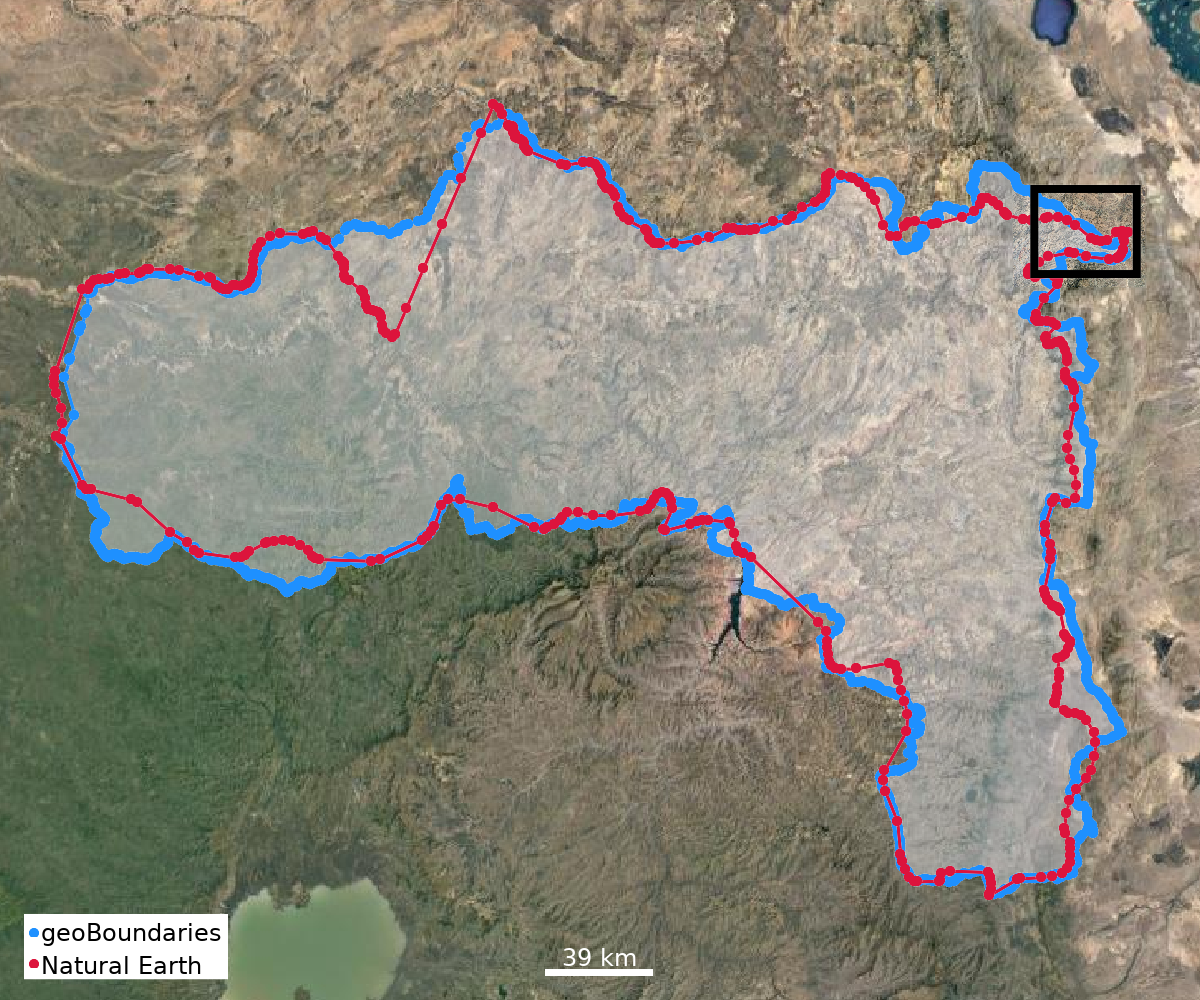
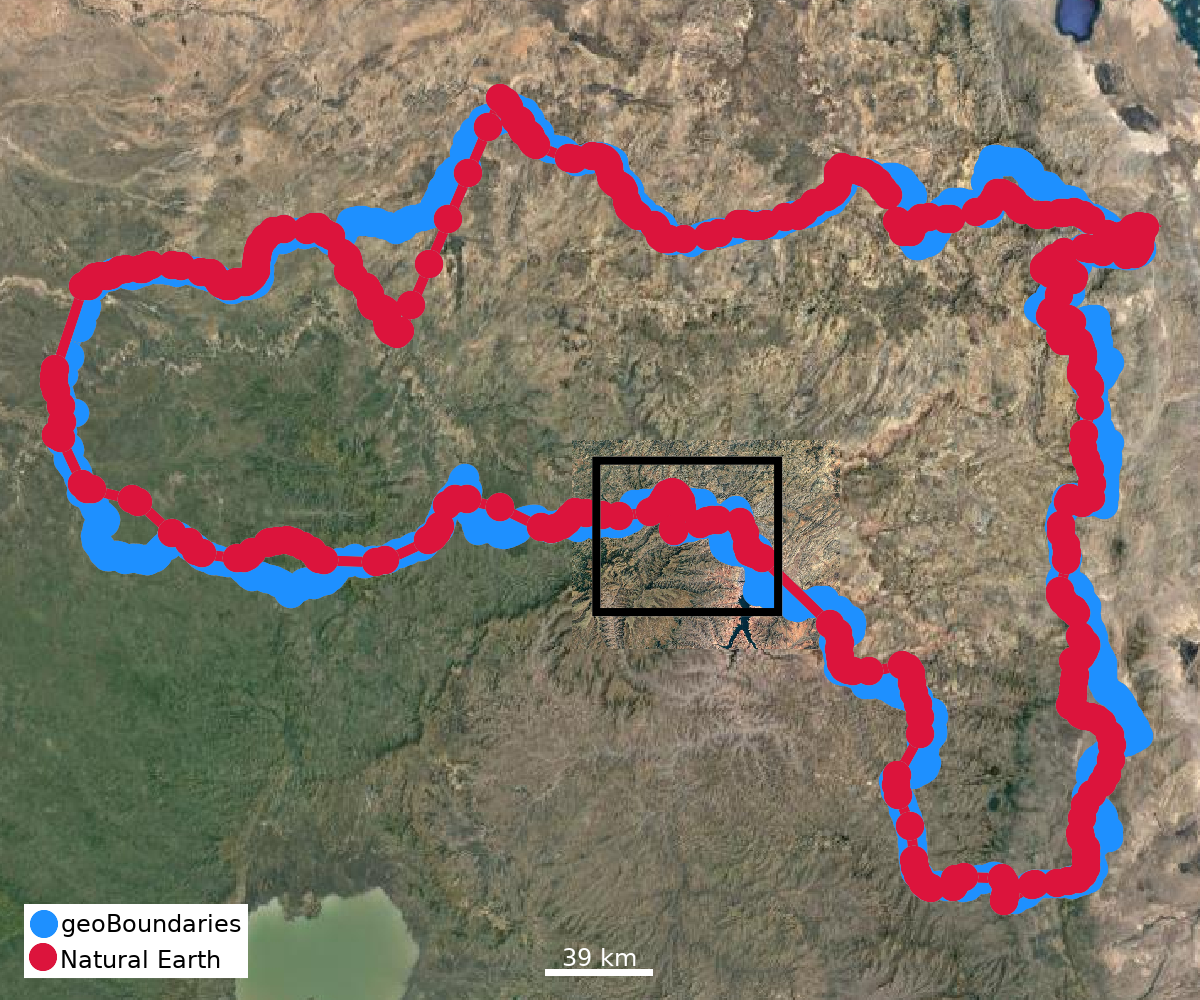
Updates to misc figures for dissertation, i think

diff --git a/tiler.py b/tiler.py
@@ -1,0 +1,210 @@
+
+import pythongis as pg
+
+# define sat tile loading
+# some parts from https://jimmyutterstrom.com/blog/2019/06/05/map-tiles-to-geotiff/
+import io
+import os
+from math import log, tan, radians, cos, pi, floor, ceil, degrees, atan, sinh
+from PIL import Image
+from urllib.request import urlopen
+import requests
+import hashlib
+
+def xyz2merc(x, y, zoom):
+    n = (2 ** zoom) or 1 # only 1 tile at zoom level 0
+    # get global mercator bounds
+    # https://www.maptiler.com/google-maps-coordinates-tile-bounds-projection/#4/87.28/18.02
+    #xmin,ymin,xmax,ymax = [-20037508.342789244, -20037508.342789244, 20037508.342789244, 20037508.342789244]
+    xmin,ymin,xmax,ymax = [-20026376.39, -20048966.10, 20026376.39, 20048966.10]
+    width,height = xmax-xmin, ymax-ymin
+    # convert xy to 0-1 range
+    x /= n
+    y /= n
+    # convert to mercator
+    x = xmin + width * x
+    y = ymin + height * (1-y)
+    return x,y
+
+def sec(x):
+    return(1/cos(x))
+
+def latlon_to_xyz(lat, lon, z):
+    tile_count = pow(2, z)
+    x = (lon + 180) / 360
+    if x < 0: 
+        x = 0
+    elif x > 1:
+        x = 1
+    if lat <= -90:
+        y = 1
+    elif lat >= 90:
+        y = 0
+    else:
+        y = (1 - log(tan(radians(lat)) + sec(radians(lat))) / pi) / 2
+    return((tile_count-0)*x, (tile_count-0)*y)
+
+# def latlon_to_xyz(lat, lon, z):
+#     # according to chatgpt
+#     lat_rad = radians(lat)
+#     n = 2.0 ** z
+#     xtile = int((lon + 180.0) / 360.0 * n)
+#     ytile = int((1.0 - log(tan(lat_rad) + (1 / cos(lat_rad))) / pi) / 2.0 * n)
+#     return (xtile, ytile)
+
+def bbox_to_xyz(lon_min, lat_min, lon_max, lat_max, z):
+    x_min, y_max = latlon_to_xyz(lat_min, lon_min, z)
+    x_max, y_min = latlon_to_xyz(lat_max, lon_max, z)
+    return(floor(x_min), floor(y_min),
+           floor(x_max), floor(y_max))
+
+def fetch_tile(x, y, z, tile_server):
+    url = tile_server.replace(
+        "{x}", str(x)).replace(
+        "{y}", str(y)).replace(
+        "{z}", str(z))
+    print('fetching from', url)
+    #fobj = io.BytesIO(urlopen(url).read())
+    headers = {'User-Agent': 'Mozilla/5.0 (Windows NT 10.0; Win64; x64) AppleWebKit/537.36 (KHTML, like Gecko) Chrome/58.0.3029.110 Safari/537.36'}
+    fobj = io.BytesIO(requests.get(url, headers=headers).content)
+    img = Image.open(fobj)
+    return img
+
+def fetch_tilecache(x, y, z, tile_server):
+    folder = 'temp'
+    if not os.path.exists(folder):
+        os.mkdir(folder)
+    urlhash = hashlib.md5(tile_server.encode('utf8')).hexdigest()
+    tilename = f'tile_cache_{urlhash}_x{x}_y{y}_z{z}.png'
+    path = f'{folder}/{tilename}'
+    print(path)
+    # fetch from cache or url
+    if os.path.exists(path):
+        # fetch cached tile image
+        img = Image.open(path)
+    else:
+        # fetch img from url
+        img = fetch_tile(x, y, z, tile_server)
+        # store in cache
+        img.save(path)
+    # return
+    return img
+
+# from https://github.com/jimutt/tiles-to-tiff/blob/master/tiles_to_tiff/tile_convert.py
+
+def mercatorToLat(mercatorY):
+    return(degrees(atan(sinh(mercatorY))))
+
+
+def y_to_lat_edges(y, z):
+    tile_count = pow(2, z)
+    unit = 1 / tile_count
+    relative_y1 = y * unit
+    relative_y2 = relative_y1 + unit
+    lat1 = mercatorToLat(pi * (1 - 2 * relative_y1))
+    lat2 = mercatorToLat(pi * (1 - 2 * relative_y2))
+    return(lat1, lat2)
+
+
+def x_to_lon_edges(x, z):
+    tile_count = pow(2, z)
+    unit = 360 / tile_count
+    lon1 = -180 + x * unit
+    lon2 = lon1 + unit
+    return(lon1, lon2)
+
+
+def tile_edges(x, y, z):
+    lat2, lat1 = y_to_lat_edges(y, z)
+    lon1, lon2 = x_to_lon_edges(x, z)
+    return[lon1, lat1, lon2, lat2]
+
+# custom
+
+def as_raster(img, _x1, _y1, _x2, _y2):
+    crs = None #'+init=EPSG:3857'
+    #georef = {'bbox':(_x1,_y1,_x2,_y2)}
+    georef = {'xscale':(_x2-_x1)/(img.size[0]-1), # -1 only to cover gaps
+                'yscale':-(_y2-_y1)/(img.size[1]-1), # -1 only to cover gaps
+                'xoffset':_x1,
+                'yoffset':_y2,
+                } 
+    print(georef)
+    r = pg.RasterData(image=img, crs=crs)
+    r.set_geotransform(**georef)
+    print(r)
+    return r
+
+def as_vector(_x1, _y1, _x2, _y2):
+    crs = None #'+init=EPSG:3857'
+    d = pg.VectorData(crs=crs)
+    poly = [[(_x1,_y1),(_x2,_y1),(_x2,_y2),(_x1,_y2)]]
+    geom = {'type':'Polygon', 'coordinates':poly}
+    d.add_feature([], geom)
+    return d
+
+def get_sat_tiles(mapp, padding=0):
+    '''Retrieve and merge xyz tiles into a single RasterData
+    Only works for wgs84 maps so far.
+    '''
+    bbox = mapp.bbox
+    xs,ys = [bbox[0],bbox[2]], [bbox[1],bbox[3]]
+    bbox = min(xs),min(ys),max(xs),max(ys)
+    #tile_server = 'https://api.maptiler.com/tiles/satellite/{z}/{x}/{y}.jpg?key=' + 'aknzJQRnZg32XVVPrcYH'
+    #tile_server = 'https://services.arcgisonline.com/arcgis/rest/services/World_Imagery/MapServer/tile/{z}/{y}/{x}'
+    tile_server = 'http://mt0.google.com/vt/lyrs=s&hl=en&x={x}&y={y}&z={z}'
+
+    # convert to latlon if needed
+    #if mapp.crs != '+init=EPSG:4326':
+    #    _transform = pg.renderer.get_crs_transformer(mapp.crs, '+init=EPSG:4326')
+    #    bbox = pg.renderer.reproject_bbox(bbox, _transform)
+
+    # determine zoom level from map extent and size
+    # how many 256 tiles fit in map
+    from math import floor, ceil, log10, log2
+    w,h = mapp.width,mapp.height
+    tilexfit,tileyfit = w/256, h/256
+    print(tilexfit,tileyfit)
+    # how many map extents fit in world
+    dx,dy = bbox[2]-bbox[0], bbox[3]-bbox[1]
+    extxfit,extyfit = 360/dx, 180/dy
+    print(extxfit,extyfit)
+    # how many tiles total needed to cover entire world
+    tilextot,tileytot = tilexfit*extxfit, tileyfit*extyfit
+    print(tilextot,tileytot)
+    # n = number of tiles needed to cover world in each direction at zoom level z
+    # n = 2**z  ->  log n = z * log 2  ->  log n / log 2 = z
+    n = tilextot
+    z = floor( log2(n) )
+    #z = floor( log10(n) / log10(2) )
+    #z = int(floor(log(n) / log(2)))
+    print(z)
+    
+    # padding
+    if padding:
+        xmin,ymin,xmax,ymax = bbox
+        w,h = abs(xmax-xmin),abs(ymax-ymin)
+        xpad,ypad = w*padding, h*padding
+        bbox = [xmin-xpad,ymin-ypad,xmax+xpad,ymax+ypad]
+
+    # loop range of xy coords within bbox
+    print('bbox',bbox)
+    xmin,ymin,xmax,ymax = bbox_to_xyz(*bbox, z) # xy coords
+    #xmin,ymin = latlon_to_xyz(bbox[3], bbox[0], z) # note that input is ymax,xmin
+    #xmax,ymax = floor(xmin+tilexfit), floor(ymin+tileyfit)
+    #xmin,ymin = map(floor, (xmin,ymin))
+    print('tile ranges',xmin,ymin,xmax,ymax)
+    for x in range(xmin, xmax + 1):
+        for y in range(ymin, ymax + 1):
+            print(f"{x},{y},{z}")
+            # get merc coorrds
+            #_x1,_y1 = xyz2merc(x, y+1, z)
+            #_x2,_y2 = xyz2merc(x+1, y, z)
+            _x1,_y1,_x2,_y2 = tile_edges(x, y, z)
+            # fetch tile
+            img = fetch_tilecache(x, y, z, tile_server)
+            # create raster
+            r = as_raster(img, _x1, _y1, _x2, _y2)
+            # create vector
+            v = as_vector(_x1, _y1, _x2, _y2)
+            yield r,v

diff --git a/illustrate_resolution.py b/illustrate_resolution.py
@@ -212,6 +212,7 @@ def makemap(geoj, geoj2, zoomfunc, zoomfunc2, name):
     #crs = '+proj=aea +lat_1=27 +lat_2=45 +lat_0=35 +lon_0=105 +x_0=0 +y_0=0 +ellps=WGS84 +datum=WGS84 +no_defs'
     
     m = pg.renderer.Map(1200,1000,background='lightgray') #,crs=crs)
+    textoptions = {'textsize': 15}
 
     # countries? 
     #m.add_layer(countries, fillcolor='lightgray', outlinewidth='0.5px')
@@ -222,8 +223,8 @@ def makemap(geoj, geoj2, zoomfunc, zoomfunc2, name):
     for f in geoj['features']:
         d.add_feature(f['properties'], f['geometry'])
     d = d.select(zoomfunc)
-    m.add_layer(d, fillcolor=(222,222,255,55), outlinecolor='blue', outlinewidth='3px', legend=False)
-    m.add_layer(d.convert.to_points('vertex'), fillcolor='blue', fillsize='5px', outlinecolor=None, legendoptions={'title':'geoBoundaries'})
+    m.add_layer(d, fillcolor=None, outlinecolor='blue', outlinewidth='10px', legend=False)
+    m.add_layer(d.convert.to_points('vertex'), fillcolor='blue', fillsize='14px', outlinecolor=None, legendoptions={'title':'geoBoundaries'})
 
     # source2
     d = pg.VectorData()
@@ -231,17 +232,25 @@ def makemap(geoj, geoj2, zoomfunc, zoomfunc2, name):
     for f in geoj2['features']:
         d.add_feature(f['properties'], f['geometry'])
     d = d.select(zoomfunc2)
-    m.add_layer(d, fillcolor=None, outlinecolor='red', outlinewidth='3px', legend=False)
-    m.add_layer(d.convert.to_points('vertex'), fillcolor='red', fillsize='5px', outlinecolor=None, legendoptions={'title':'Natural Earth'})
+    m.add_layer(d, fillcolor=None, outlinecolor='red', outlinewidth='10px', legend=False)
+    m.add_layer(d.convert.to_points('vertex'), fillcolor='red', fillsize='14px', outlinecolor=None, legendoptions={'title':'Natural Earth'})
     
     # zoom
     m.zoom_auto()
     #m.zoom_out(1.1)
     #m.zoom_in(3)
-    m.offset('-35%w', '30%h')
+
+    # old
+    #m.offset('-35%w', '30%h')
+    #m.zoom_in(3)
+    #m.offset('-33%w', 0)
+    #m.zoom_in(3.5)
+
+    # new
+    #m.offset('8%w', '-2%h')
+    m.offset('-8%w', '-4%h')
     m.zoom_in(3)
-    m.offset('-33%w', 0)
-    m.zoom_in(3.5)
+    m.zoom_in(2)
 
     # add satellite base layer
     bbox = m.bbox
@@ -277,7 +286,8 @@ def makemap(geoj, geoj2, zoomfunc, zoomfunc2, name):
     # add satellite base layer for new zoom
     bbox = m.bbox
     print(bbox)
-    for sat in get_sat_tiles(m):
+    import tiler
+    for sat,footprint in tiler.get_sat_tiles(m):
     #for sat in get_sat(bbox, padding=0.1):
     #for sat in [pg.RasterData('temp/localsat.tif')]: 
         #for b in sat.bands:
@@ -293,7 +303,7 @@ def makemap(geoj, geoj2, zoomfunc, zoomfunc2, name):
 iso,lvl = 'ETH', 1
 sources = bt.utils.find_geocontrast_sources(iso, lvl)
 geoj = bt.utils.load_topojson_url(sources['geoBoundaries (Open)'])
-geoj2 = bt.utils.load_topojson_url(sources['Natural Earth v4.1'])
+geoj2 = bt.utils.load_topojson_url(sources['Natural Earth v5.0.1'])
 zoomfunc = lambda f: f['shapeName']=='Tigray'
 zoomfunc2 = lambda f: f['name']=='Tigray'
 name = '{}-{}-Tigray-gB vs NE'.format(iso, lvl)

diff --git a/method_similarity2.py b/method_similarity2.py
@@ -1,0 +1,79 @@
+# imports
+import boundarytools as bt
+import os
+import json
+import numpy as np
+import math
+import csv
+from urllib.request import urlopen
+import pythongis as pg
+
+def geoj2data(geoj):
+    d = pg.VectorData()
+    d.fields = list(geoj['features'][0]['properties'].keys())
+    for f in geoj['features']:
+        d.add_feature(f['properties'], f['geometry'])
+    return d
+
+def similarity(f1, f2):
+    print(f1,f2)
+    shp1 = f1.get_shapely()
+    shp2 = f2.get_shapely()
+    isec = shp1.intersection(shp2)
+    union = shp1.union(shp2)
+    simil = (isec.area/union.area) * 100
+    print('simil',simil)
+    return isec,union,simil
+
+# load sources
+iso,lvl = 'OMN', 1
+sources = bt.utils.find_geocontrast_sources(iso, lvl)
+
+geoj = bt.utils.load_topojson_url(sources['geoBoundaries (Open)'])
+d = geoj2data(geoj)
+for f in d:
+    if f['shapeName'] == 'Al Wusta':
+        print('found', f['shapeName'])
+        f1 = f
+
+geoj2 = bt.utils.load_topojson_url(sources['GADM v4.0.4'])
+d2 = geoj2data(geoj2)
+print(d2.fields)
+for f in d2:
+    if f['NAME_1'] == 'Al Wusta':
+        print('found', f['NAME_1'])
+        f2 = f
+
+# render source 1 unit
+m = pg.renderer.Map(2000,2000,background='white') #,crs=crs)
+m.add_layer(f1.dataset(), fillcolor='lightgray')
+m.zoom_auto()
+m.zoom_out(1.1)
+m.save('figures/similarity-simple-source1.png')
+
+# render source 2 unit
+m = pg.renderer.Map(2000,2000,background='white') #,crs=crs)
+m.add_layer(f2.dataset(), fillcolor='lightgray')
+m.zoom_auto()
+m.zoom_out(1.1)
+m.save('figures/similarity-simple-source2.png')
+
+# render both intersection
+isec,union,simil = similarity(f1, f2)
+print('isec area', isec.area)
+print('union area', union.area)
+print('% similarity', simil)
+_isec = pg.VectorData()
+_isec.add_feature([], isec.__geo_interface__)
+m = pg.renderer.Map(2000,2000,background='white') #,crs=crs)
+m.add_layer(f1.dataset(), fillcolor='lightgray')
+m.add_layer(f2.dataset(), fillcolor='lightgray')
+m.add_layer(_isec, fillcolor='gray')
+m.zoom_auto()
+m.zoom_out(1.1)
+m.save('figures/similarity-simple-both.png')
+
+
+
+
+    
